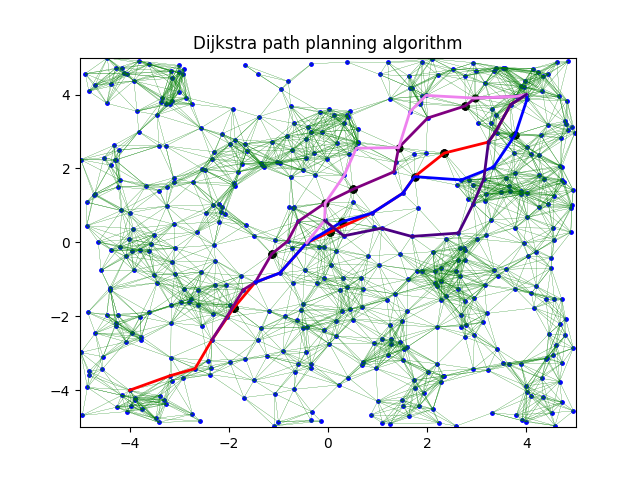
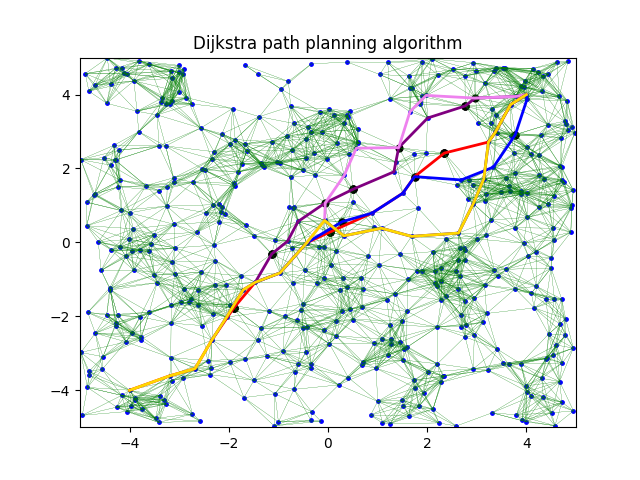
Fixed total cost for A*/Dijkstra and displayed final path

diff --git a/astar.py b/astar.py
@@ -33,6 +33,13 @@ def replan(new_start, points, new_obstacles, cost_multiplier=1, prevCounts = (0,
     planner = Astar(cost_multiplier, prevCounts[0], prevCounts[1], prevCounts[2])
     return (planner.plan(env.graph, env.start, env.goal), planner.getCounts())
 
+def path_cost(path):
+    total_cost = 0
+    for i in range(len(path) - 1):
+        total_cost += path[i].cost_to(path[i+1])
+
+    return total_cost
+
 np.random.seed(234)
 # plot empty axes
 fig, ax = plt.subplots()
@@ -55,6 +62,7 @@ viz.show(msg='Showing graph. Press enter to continue')
 
 planner = Astar()
 path, total_cost = planner.plan(env.graph, env.start, env.goal)
+final_path = np.copy(path)
 
 viz.plot_path(BasicNode.nodes_to_xy(path))
 viz.show(msg='Showing path. Press enter to add point obstacle') 
@@ -65,42 +73,50 @@ print(f"Total cost of original path: %s" % (total_cost, ))
 obstacles, idx = generate_obstacles(path)
 new_start = [path[idx - 1].x, path[idx - 1].y]
 (new_path, new_total_cost), new_counts = replan(new_start, points, obstacles, 1, planner.getCounts())
-total_cost += new_total_cost
+prev_final_idx = idx - 1
+final_path = np.concatenate((final_path[0:prev_final_idx], new_path))
 viz.plot_path(BasicNode.nodes_to_xy(new_path), col='Purple')
 viz.plot_nodes(obstacles, col='Black', size=24)
 viz.show(msg='Showing altered path. Press enter to add newer obstacles')
 print(f"associated onDeck, processed nodes, and iterations: %s" % (new_counts, ))
-print(f"Total cost of path: %s" % (total_cost, ))
+print(f"Total cost of path: %s" % (path_cost(final_path), ))
 
 # replanning
 obstacles, idx = generate_obstacles(new_path)
 new_start = [new_path[idx - 1].x, new_path[idx - 1].y]
 (new_path, new_total_cost), new_counts = replan(new_start, points, obstacles, 1, new_counts)
-total_cost += new_total_cost
+prev_final_idx += idx - 1
+final_path = np.concatenate((final_path[0:prev_final_idx], new_path))
 viz.plot_path(BasicNode.nodes_to_xy(new_path), col='Blue')
 viz.plot_nodes(obstacles, col='Black', size=24)
 viz.show(msg='Showing altered path. Press enter to add newer obstacles')
 print(f"associated onDeck, processed nodes, and iterations: %s" % (new_counts, ))
-print(f"Total cost of path: %s" % (total_cost, ))
+print(f"Total cost of path: %s" % (path_cost(final_path), ))
 
 # replanning
 obstacles, idx = generate_obstacles(new_path)
 new_start = [new_path[idx - 1].x, new_path[idx - 1].y]
 (new_path, new_total_cost), new_counts = replan(new_start, points, obstacles, 1, new_counts)
-total_cost += new_total_cost
+prev_final_idx += idx - 1
+final_path = np.concatenate((final_path[0:prev_final_idx], new_path))
 viz.plot_path(BasicNode.nodes_to_xy(new_path), col='Violet')
 viz.plot_nodes(obstacles, col='Black', size=24)
 viz.show(msg='Showing altered path. Press enter to add newer obstacles')
 print(f"associated onDeck, processed nodes, and iterations: %s" % (new_counts, ))
-print(f"Total cost of path: %s" % (total_cost, ))
+print(f"Total cost of path: %s" % (path_cost(final_path), ))
 
 # replanning
 obstacles, idx = generate_obstacles(new_path)
 new_start = [new_path[idx - 1].x, new_path[idx - 1].y]
 (new_path, new_total_cost), new_counts = replan(new_start, points, obstacles, 1, new_counts)
-total_cost += new_total_cost
+prev_final_idx += idx - 1
+final_path = np.concatenate((final_path[0:prev_final_idx], new_path))
 viz.plot_path(BasicNode.nodes_to_xy(new_path), col='Indigo')
 viz.plot_nodes(obstacles, col='Black', size=24)
-viz.show(msg='Showing altered path. Press enter to quit')
+viz.show(msg='Showing altered path. Press enter to show final path')
 print(f"associated onDeck, processed nodes, and iterations: %s" % (new_counts, ))
-print(f"Total cost of path: %s" % (total_cost, ))
+print(f"Total cost of path: %s" % (path_cost(final_path), ))
+
+# show final path
+viz.plot_path(BasicNode.nodes_to_xy(final_path), col='Gold')
+viz.show(msg='Showing final path. Press enter to quit')

diff --git a/dijkstra.py b/dijkstra.py
@@ -71,10 +71,10 @@ print(f"Total cost of original path: %s" % (total_cost, ))
 
 # replanning
 obstacles, idx = generate_obstacles(path)
-final_path = path[0:idx-1]
 new_start = [path[idx - 1].x, path[idx - 1].y]
 (new_path, new_total_cost), new_counts = replan(new_start, points, obstacles, 0, planner.getCounts())
-final_path = np.concatenate((final_path, new_path))
+prev_final_idx = idx - 1
+final_path = np.concatenate((final_path[0:prev_final_idx], new_path))
 viz.plot_path(BasicNode.nodes_to_xy(new_path), col='Purple')
 viz.plot_nodes(obstacles, col='Black', size=24)
 viz.show(msg='Showing altered path. Press enter to add newer obstacles')
@@ -83,10 +83,10 @@ print(f"Total cost of path: %s" % (path_cost(final_path), ))
 
 # replanning
 obstacles, idx = generate_obstacles(new_path)
-final_path = new_path[0:idx-1]
 new_start = [new_path[idx - 1].x, new_path[idx - 1].y]
 (new_path, new_total_cost), new_counts = replan(new_start, points, obstacles, 0, new_counts)
-final_path = np.concatenate((final_path, new_path))
+prev_final_idx += idx - 1
+final_path = np.concatenate((final_path[0:prev_final_idx], new_path))
 viz.plot_path(BasicNode.nodes_to_xy(new_path), col='Blue')
 viz.plot_nodes(obstacles, col='Black', size=24)
 viz.show(msg='Showing altered path. Press enter to add newer obstacles')
@@ -95,10 +95,10 @@ print(f"Total cost of path: %s" % (path_cost(final_path), ))
 
 # replanning
 obstacles, idx = generate_obstacles(new_path)
-final_path = new_path[0:idx-1]
 new_start = [new_path[idx - 1].x, new_path[idx - 1].y]
 (new_path, new_total_cost), new_counts = replan(new_start, points, obstacles, 0, new_counts)
-final_path = np.concatenate((final_path, new_path))
+prev_final_idx += idx - 1
+final_path = np.concatenate((final_path[0:prev_final_idx], new_path))
 viz.plot_path(BasicNode.nodes_to_xy(new_path), col='Violet')
 viz.plot_nodes(obstacles, col='Black', size=24)
 viz.show(msg='Showing altered path. Press enter to add newer obstacles')
@@ -107,10 +107,10 @@ print(f"Total cost of path: %s" % (path_cost(final_path), ))
 
 # replanning
 obstacles, idx = generate_obstacles(new_path)
-final_path = new_path[0:idx-1]
 new_start = [new_path[idx - 1].x, new_path[idx - 1].y]
 (new_path, new_total_cost), new_counts = replan(new_start, points, obstacles, 0, new_counts)
-final_path = np.concatenate((final_path, new_path))
+prev_final_idx += idx - 1
+final_path = np.concatenate((final_path[0:prev_final_idx], new_path))
 viz.plot_path(BasicNode.nodes_to_xy(new_path), col='Indigo')
 viz.plot_nodes(obstacles, col='Black', size=24)
 viz.show(msg='Showing altered path. Press enter to show final path')
